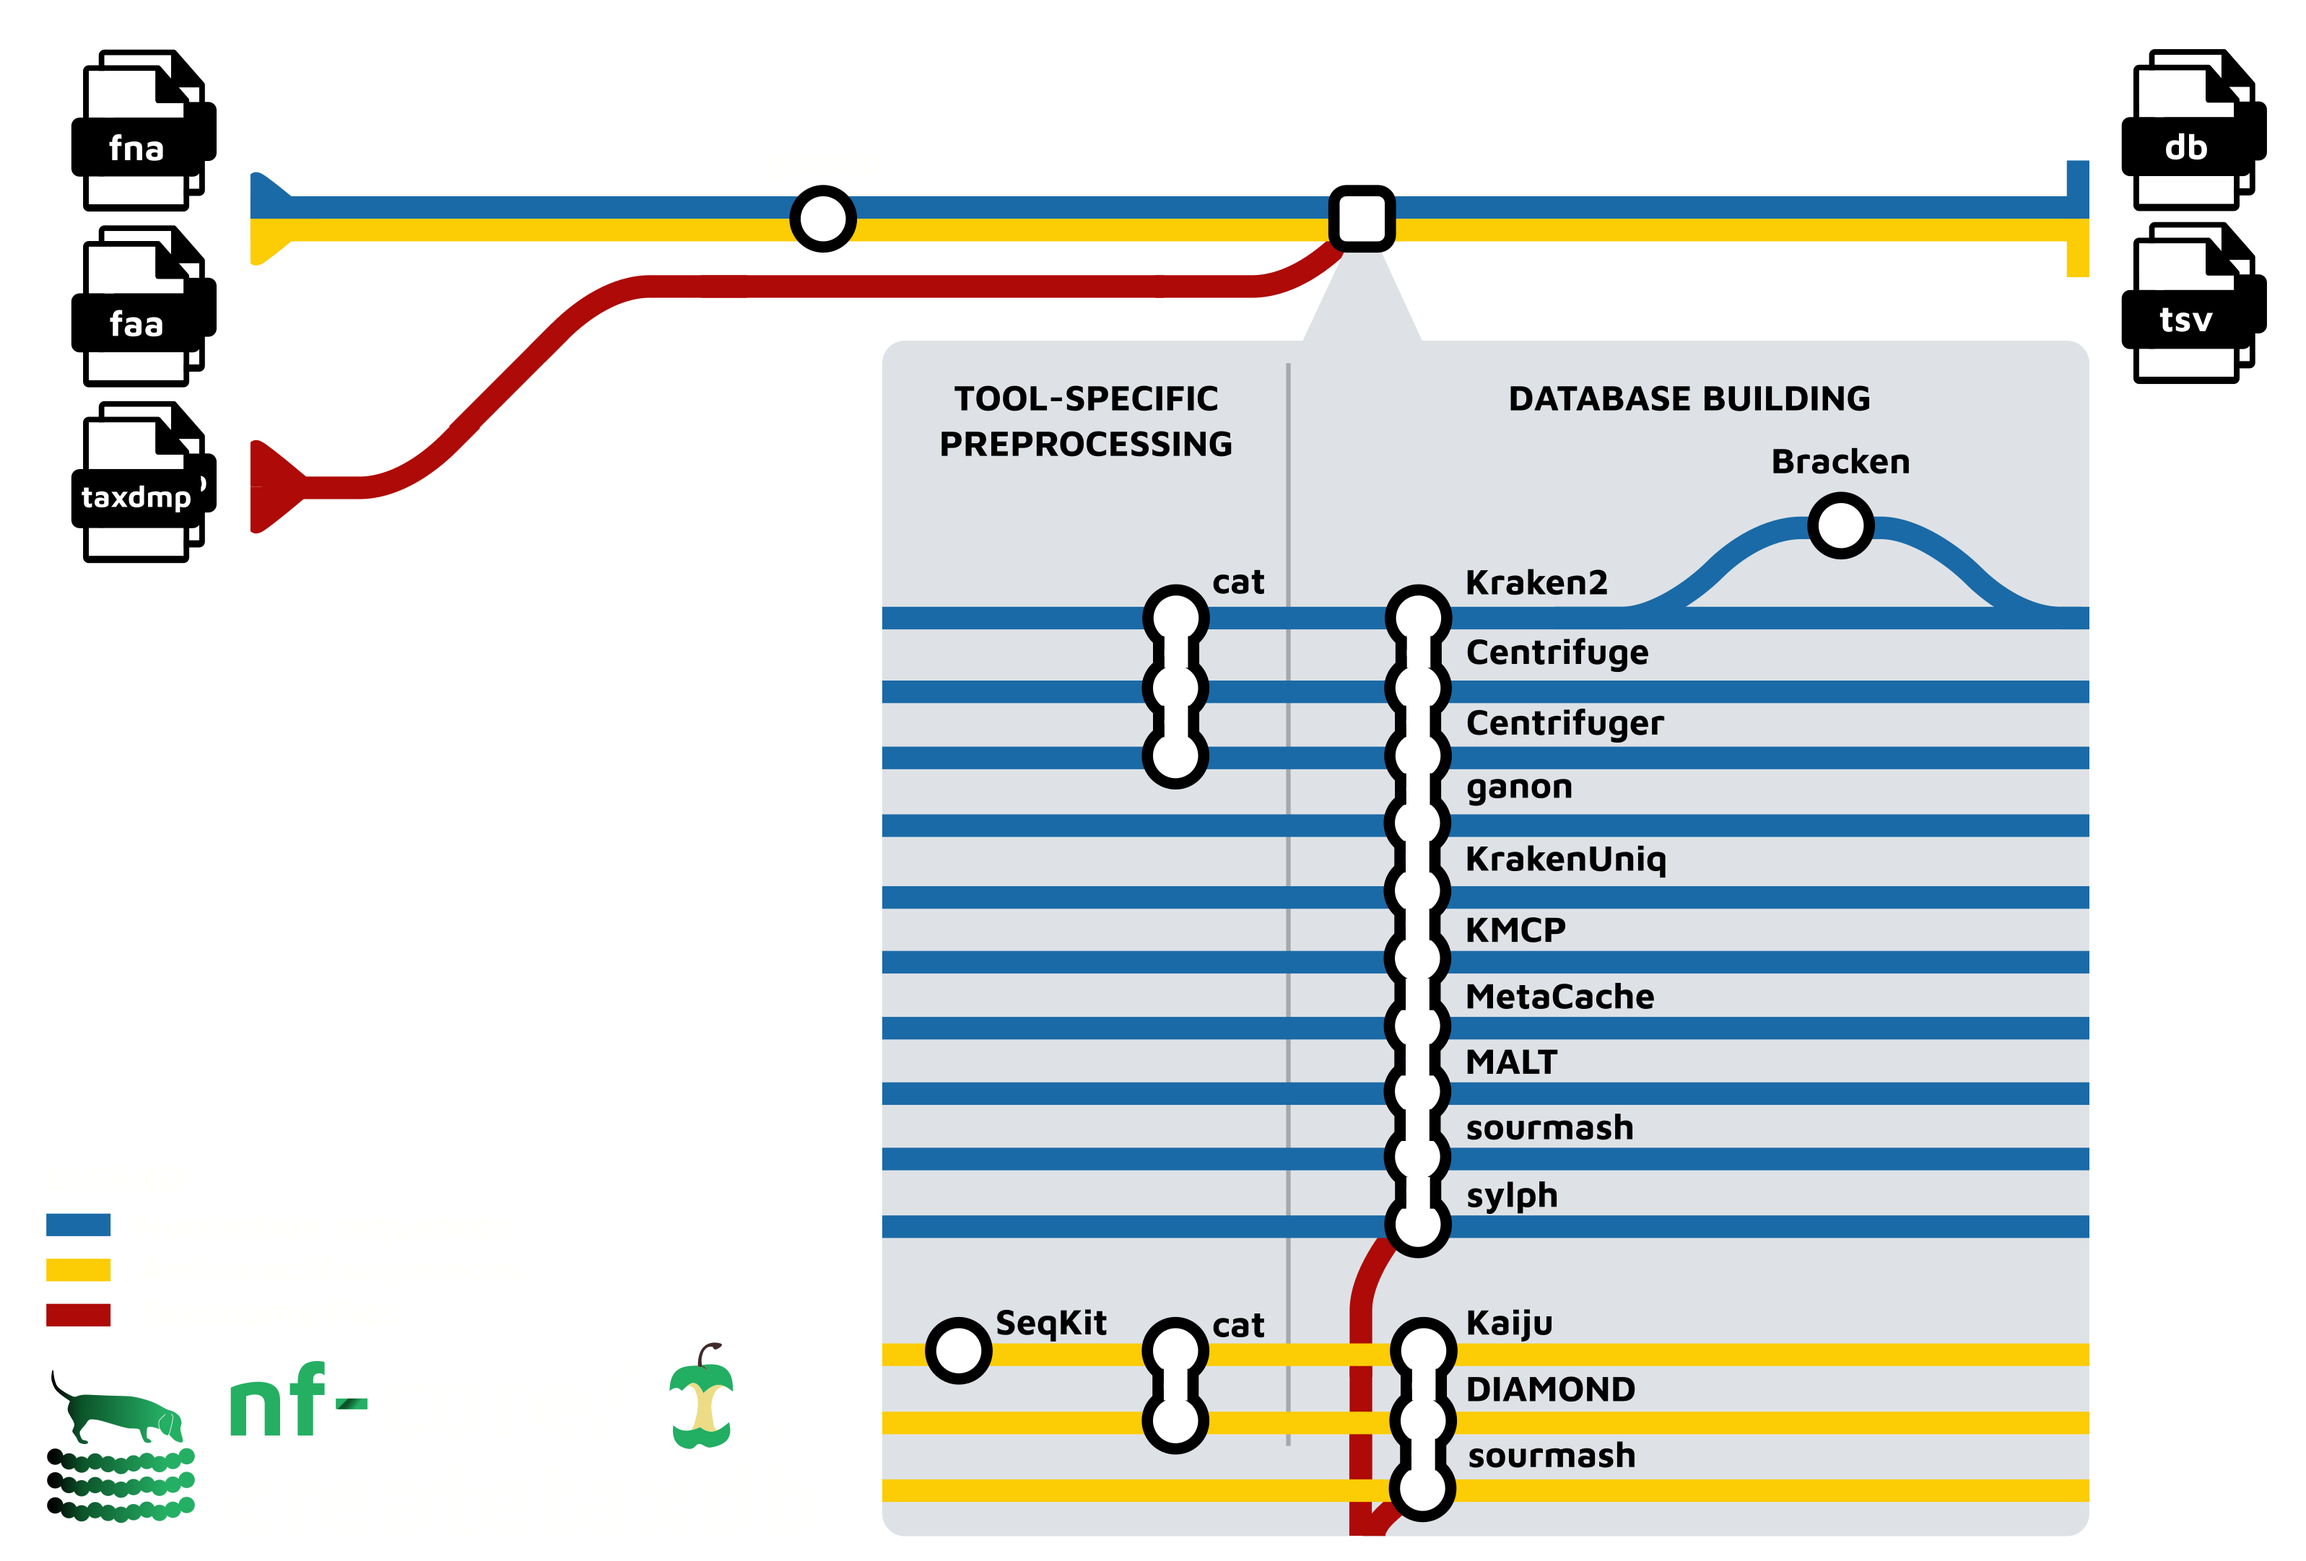
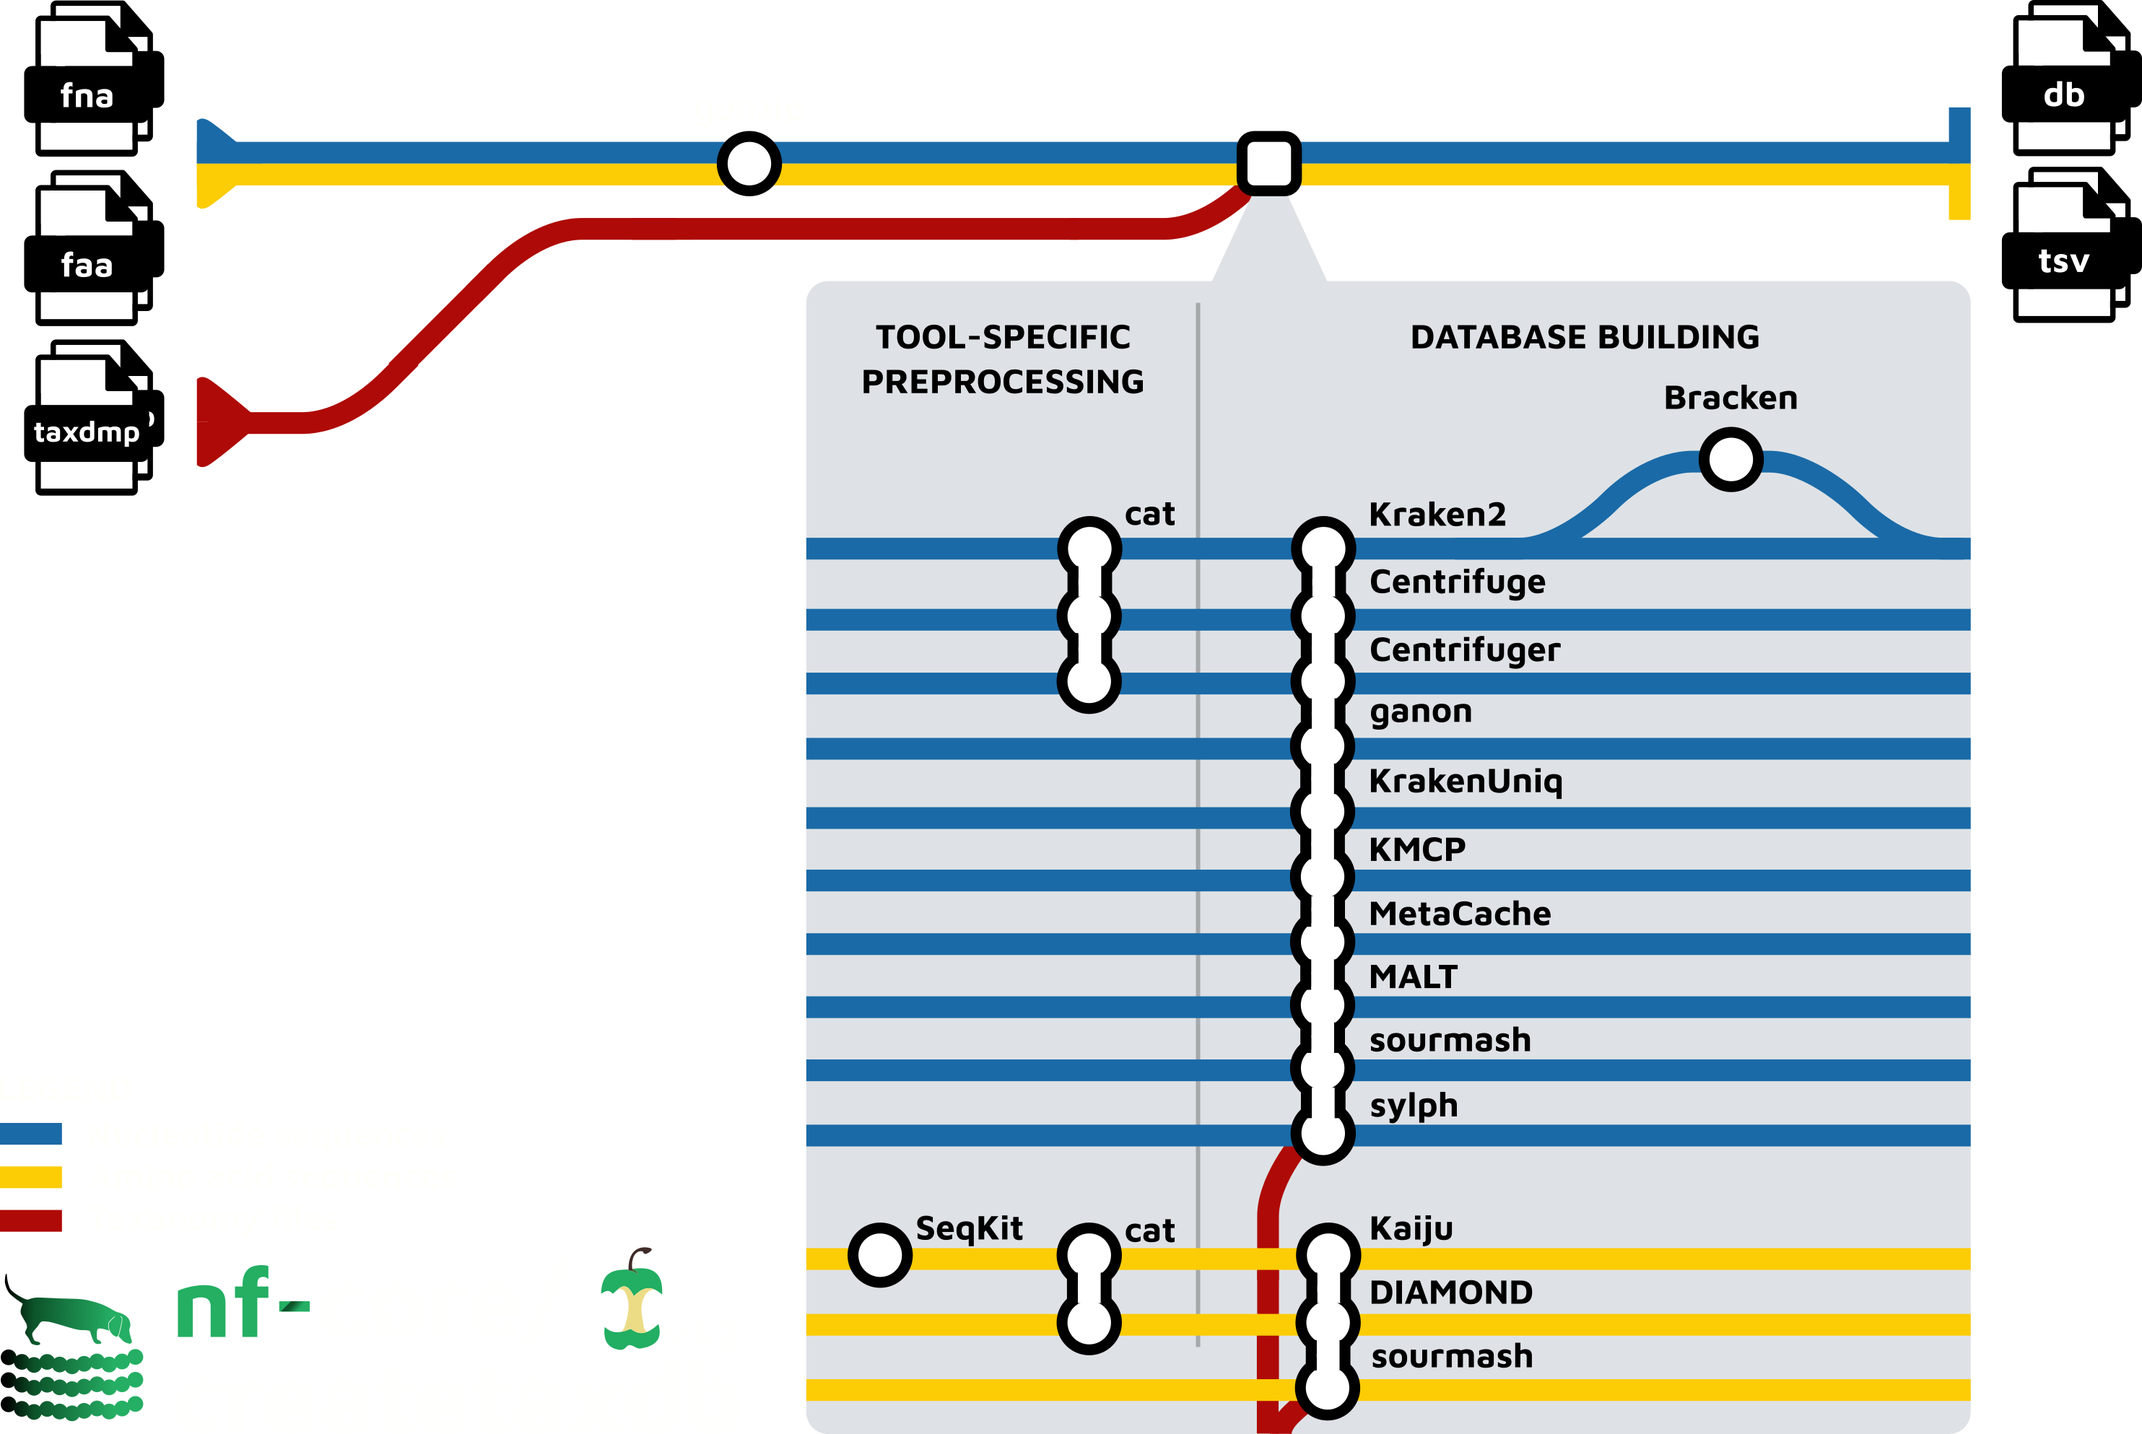
Bump version for Seductive Siren release

Changed region(s): [[0.0, 0.0, 1.0, 1.0], [0.0, 0.7801, 0.155, 0.9985], [0.2791, 0.8737, 0.3411, 0.9361]]

diff --git a/CHANGELOG.md b/CHANGELOG.md
@@ -3,7 +3,7 @@
 The format is based on [Keep a Changelog](https://keepachangelog.com/en/1.0.0/)
 and this project adheres to [Semantic Versioning](https://semver.org/spec/v2.0.0.html).
 
-## v3.2.0dev - [unreleased<!-- TODO nf-core: replace with date on release -->]
+## v3.2.0 - Seductive Siren - [2026-10-30]
 
 ### `Added`
 
